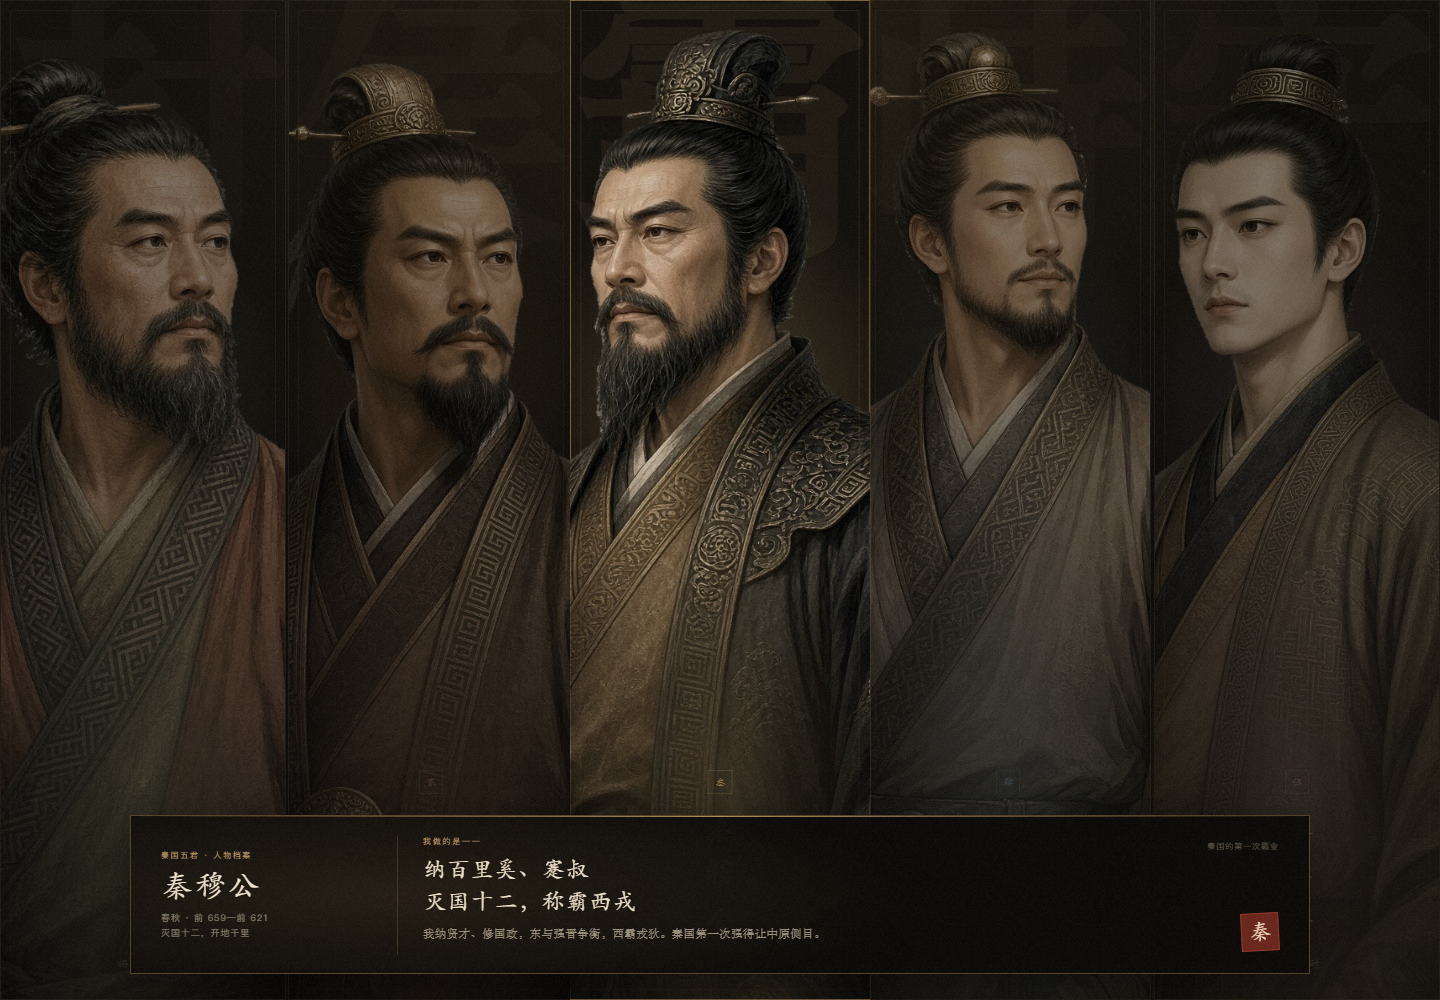
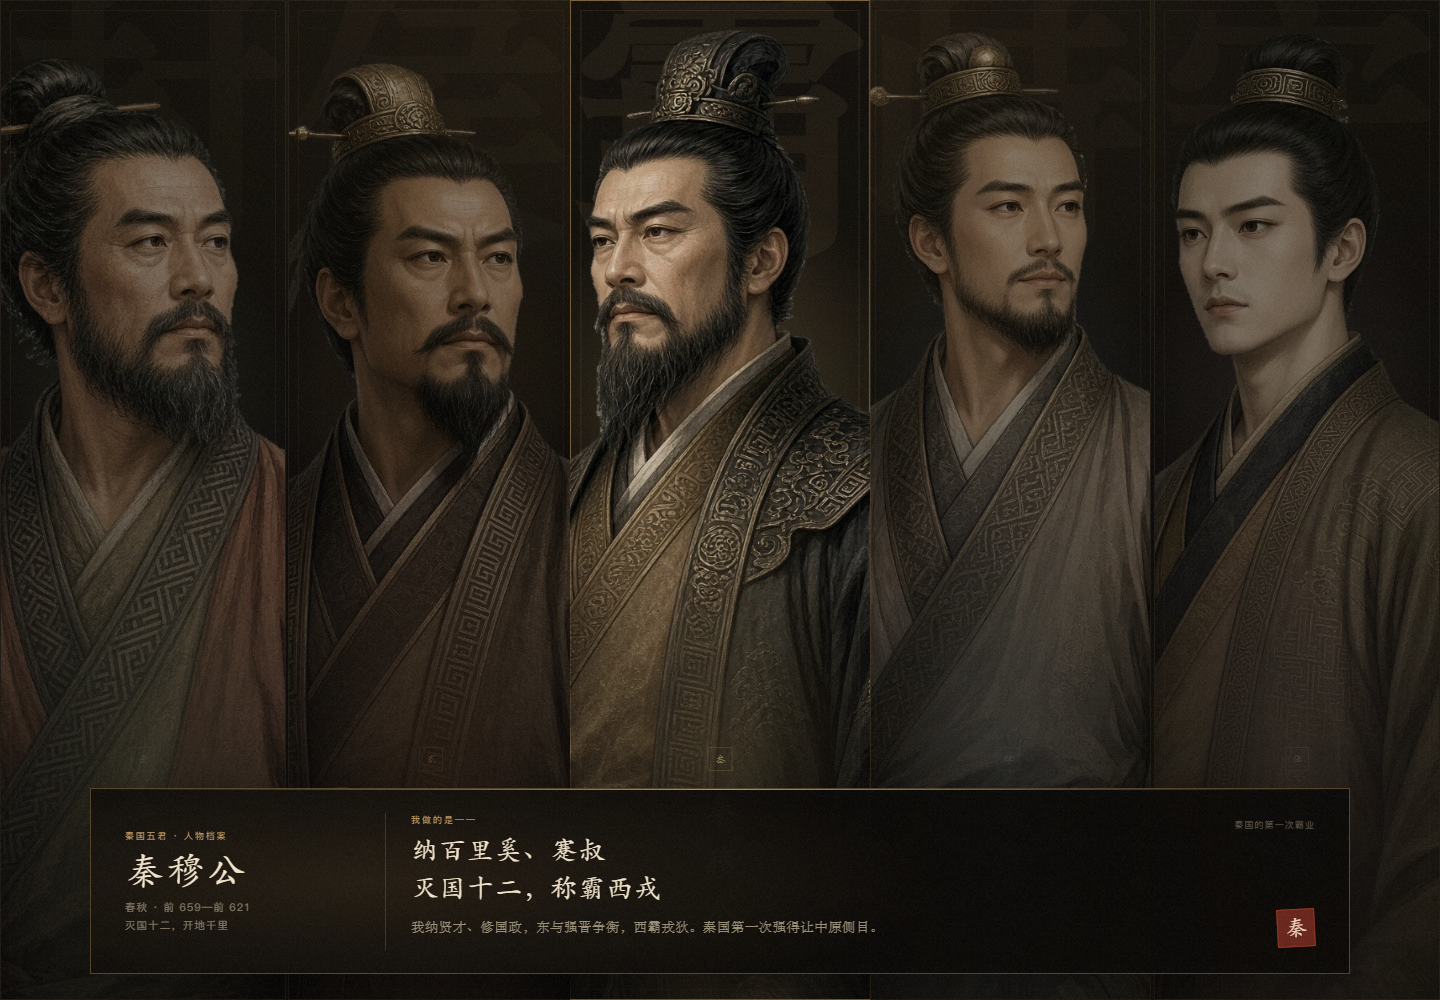
style: enlarge dossier text and hover panel

diff --git a/styles.css b/styles.css
@@ -916,7 +916,7 @@ body:not(.is-revealed) .ruler-inner {
 .name {
   color: #f0e2c9;
   font-family: var(--font-kai);
-  font-size: clamp(23px, 2.2vw, 31px);
+  font-size: clamp(26px, 2.5vw, 36px);
   font-weight: 400;
   line-height: 1;
   letter-spacing: 0.17em;
@@ -927,8 +927,8 @@ body:not(.is-revealed) .ruler-inner {
 .epithet {
   color: rgba(207, 192, 164, 0.72);
   font-family: var(--font-serif);
-  font-size: 10px;
-  letter-spacing: 0.24em;
+  font-size: 11.5px;
+  letter-spacing: 0.22em;
 }
 
 .panel {
@@ -1591,7 +1591,7 @@ body.all-visited .coda.in-view .seal {
   }
 
   .name {
-    font-size: 27px;
+    font-size: 30px;
   }
 
   .panel {
@@ -1730,8 +1730,8 @@ body.all-visited .coda.in-view .seal {
   z-index: 35;
   bottom: clamp(16px, 2.6vh, 28px);
   left: 50%;
-  width: min(1180px, calc(100vw - 48px));
-  padding: 20px 30px 18px;
+  width: min(1260px, calc(100vw - 48px));
+  padding: 24px 34px 22px;
   color: var(--paper);
   border: 1px solid rgba(var(--accent-rgb), 0.35);
   background:
@@ -1763,8 +1763,8 @@ body.all-visited .coda.in-view .seal {
 
 .hover-detail-inner {
   display: grid;
-  grid-template-columns: 210px minmax(0, 1fr) 150px;
-  gap: 26px;
+  grid-template-columns: 230px minmax(0, 1fr) 160px;
+  gap: 30px;
   align-items: center;
 }
 
@@ -1773,7 +1773,7 @@ body.all-visited .coda.in-view .seal {
   margin-bottom: 7px;
   color: rgba(var(--accent-rgb), 0.9);
   font-family: var(--font-sans);
-  font-size: 8px;
+  font-size: 9px;
   letter-spacing: 0.2em;
 }
 
@@ -1781,7 +1781,7 @@ body.all-visited .coda.in-view .seal {
   margin: 0;
   color: #f4e7cf;
   font-family: var(--font-kai);
-  font-size: 31px;
+  font-size: 38px;
   font-weight: 400;
   line-height: 1.15;
   letter-spacing: 0.07em;
@@ -1791,7 +1791,7 @@ body.all-visited .coda.in-view .seal {
   margin: 6px 0 0;
   color: rgba(207, 192, 164, 0.58);
   font-family: var(--font-sans);
-  font-size: 9px;
+  font-size: 10.5px;
   line-height: 1.7;
   letter-spacing: 0.1em;
 }
@@ -1806,7 +1806,7 @@ body.all-visited .coda.in-view .seal {
   margin: 0 0 6px;
   color: rgba(var(--accent-rgb), 0.9);
   font-family: var(--font-sans);
-  font-size: 8px;
+  font-size: 9px;
   letter-spacing: 0.22em;
 }
 
@@ -1814,7 +1814,7 @@ body.all-visited .coda.in-view .seal {
   margin: 0;
   color: #f3e5cc;
   font-family: var(--font-kai);
-  font-size: 23px;
+  font-size: 27px;
   line-height: 1.4;
   letter-spacing: 0.03em;
 }
@@ -1824,8 +1824,8 @@ body.all-visited .coda.in-view .seal {
   margin: 7px 0 0;
   color: rgba(207, 192, 164, 0.72);
   font-family: var(--font-serif);
-  font-size: 11.5px;
-  line-height: 1.8;
+  font-size: 13.5px;
+  line-height: 1.85;
   letter-spacing: 0.03em;
 }
 
@@ -1842,7 +1842,7 @@ body.all-visited .coda.in-view .seal {
 .hover-detail-meta {
   color: rgba(152, 139, 116, 0.6);
   font-family: var(--font-sans);
-  font-size: 8px;
+  font-size: 9px;
   line-height: 1.7;
   letter-spacing: 0.12em;
   text-align: right;
@@ -1885,12 +1885,12 @@ body.all-visited .coda.in-view .seal {
   }
 
   .hover-detail-name {
-    font-size: 24px;
+    font-size: 28px;
   }
 
   .hover-detail-era {
     margin-top: 3px;
-    font-size: 8.5px;
+    font-size: 9.5px;
     line-height: 1.5;
   }
 
@@ -1902,11 +1902,11 @@ body.all-visited .coda.in-view .seal {
 
   .hover-detail-lead {
     margin-bottom: 4px;
-    font-size: 7.5px;
+    font-size: 8px;
   }
 
   .hover-detail-merit {
-    font-size: 18px;
+    font-size: 21px;
     line-height: 1.35;
   }
 
@@ -1915,7 +1915,7 @@ body.all-visited .coda.in-view .seal {
     min-height: 0;
     margin-top: 5px;
     overflow: hidden;
-    font-size: 10.5px;
+    font-size: 11.5px;
     line-height: 1.7;
     -webkit-box-orient: vertical;
     -webkit-line-clamp: 2;

diff --git a/README.md b/README.md
@@ -257,7 +257,7 @@ window.addEventListener('qin:ending:complete', (event) => {
 
 - [x] 五个按钮全部渲染，顺序正确，无 JavaScript 报错。
 - [x] 桌面 1440×1000：五卡各 286×1000 铺满视口，页面无纵向/横向滚动。
-- [x] 桌面悬停秦穆公：卡片横向放大到 301×1000，冠顶不裁切，底部升起 1180×159 档案带。
+- [x] 桌面悬停秦穆公：卡片横向放大到 301×1000，冠顶不裁切，底部升起 1260×186 档案带；姓名 38px、功绩 27px、正文 13.5px。
 - [x] 移开鼠标后档案带收起，页面仍保持全屏五卡。
 - [x] 键盘聚焦后 `ArrowRight` 可从第 1 位移动焦点，焦点卡自动显示档案。
 - [x] 移动端 390×844：档案带为 390×201 底部抽屉，卡片脸部仍可见，页面无溢出。
